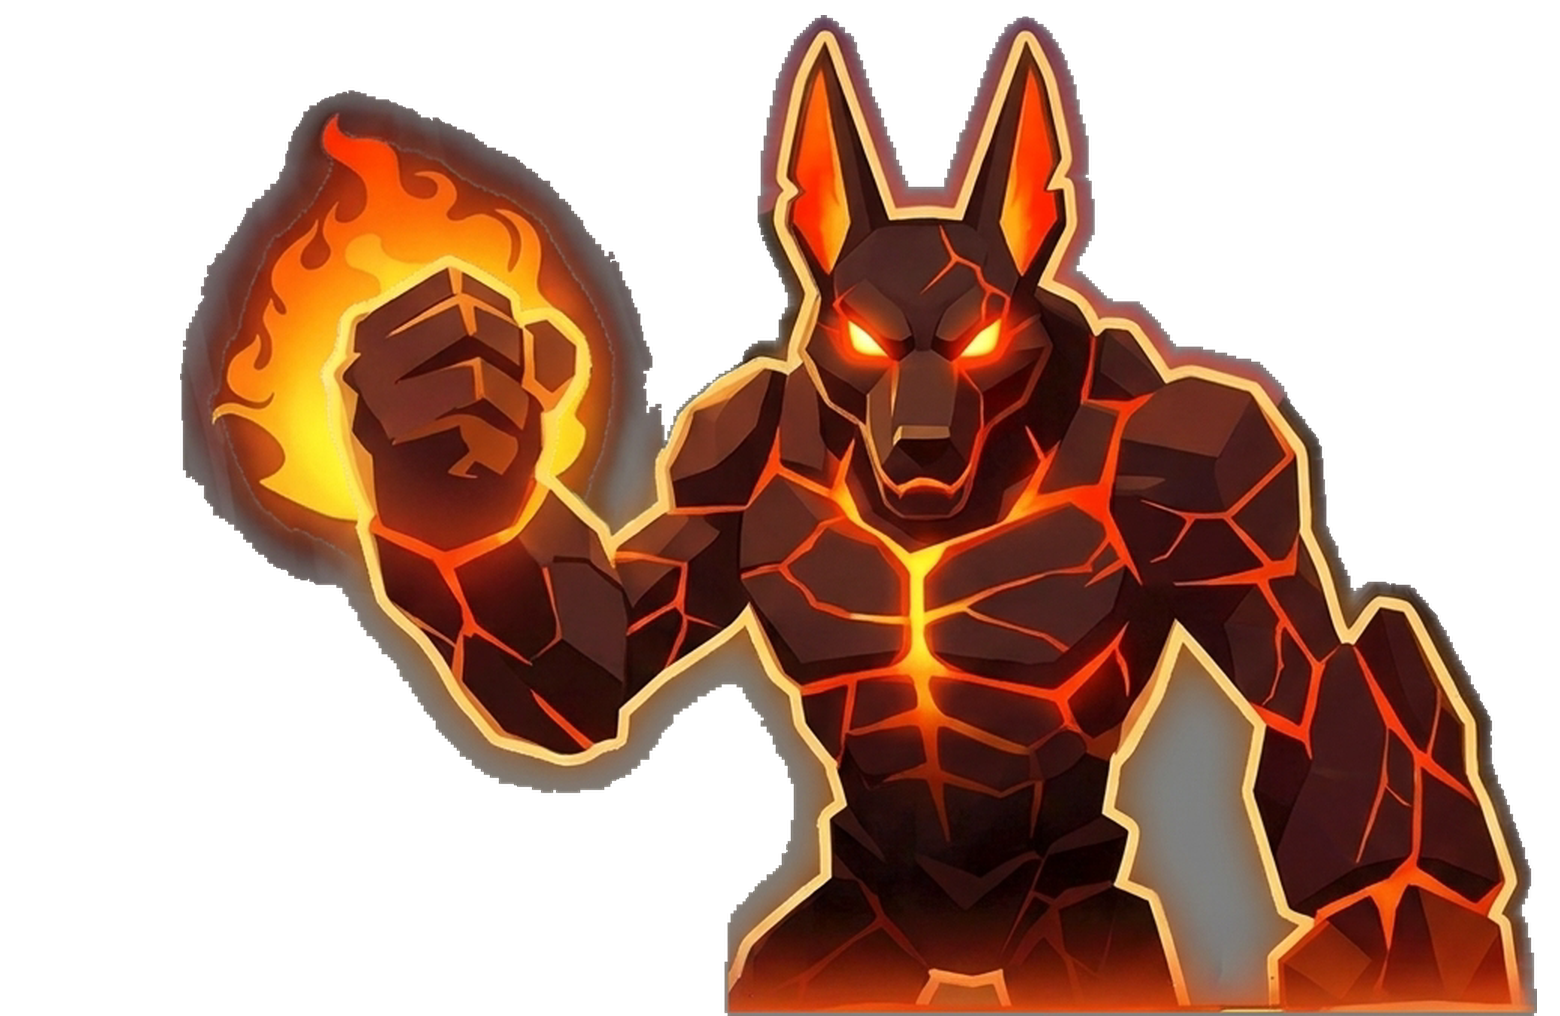
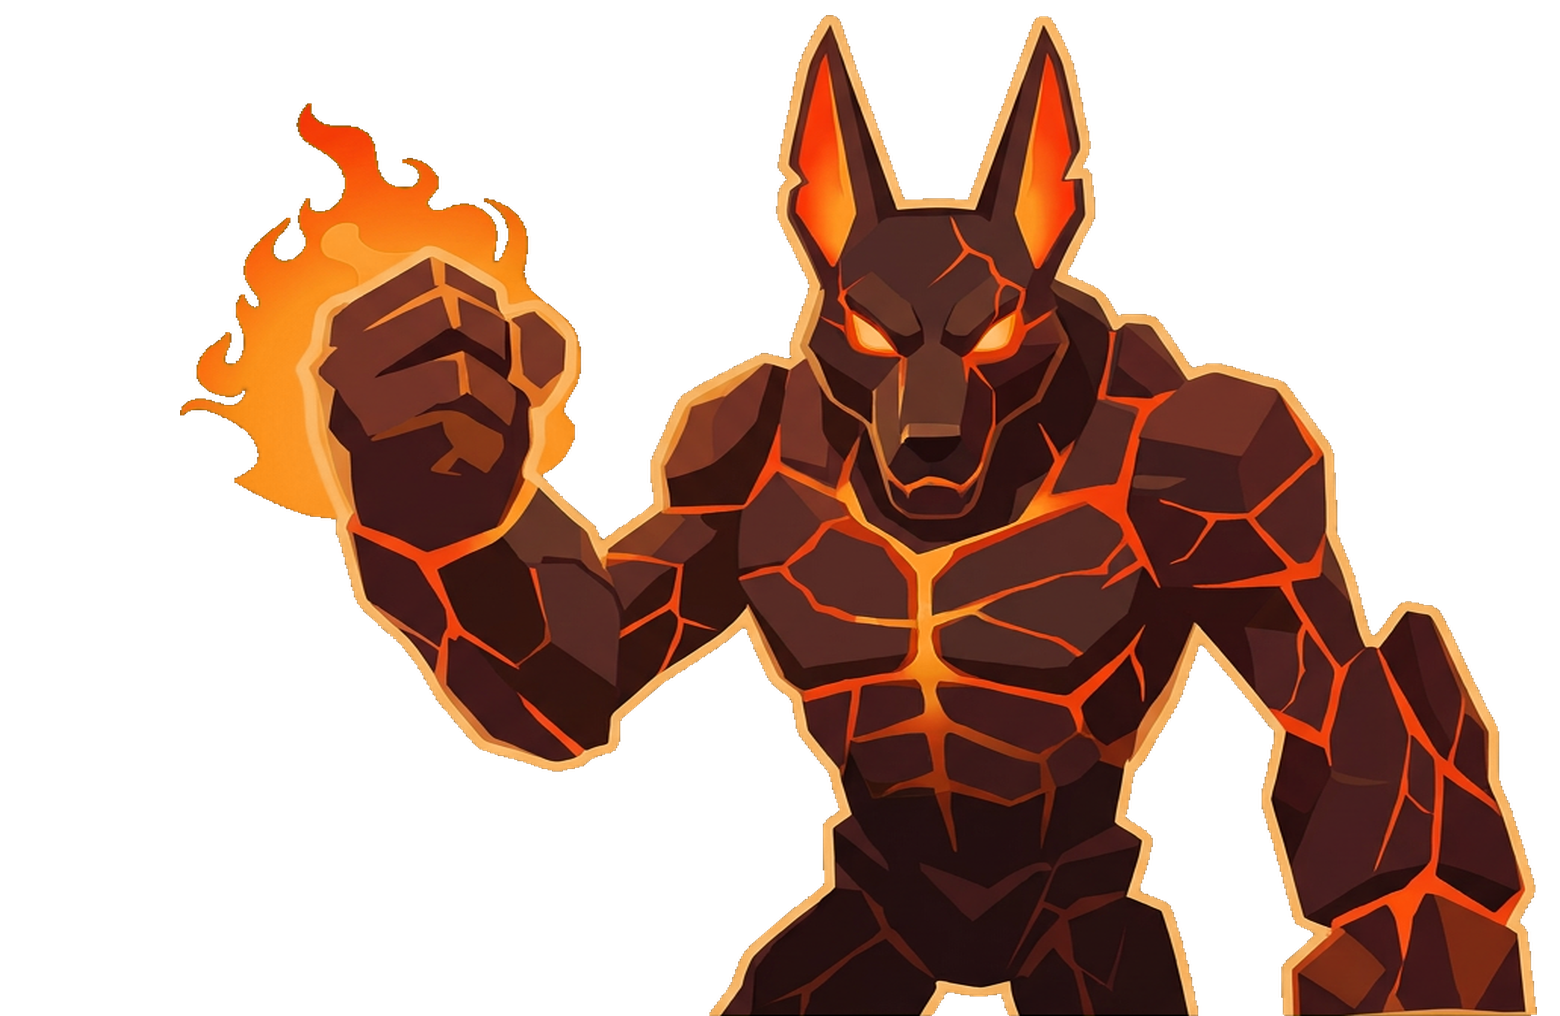
Nick's 2026-10-21 list: clean jackal, no aura, Goblin's stones, beast back, no purple
Sprite: regenerated through Meshy onto a PURE GREEN field and keyed out, rather
than cut off grey. The grey the old cut carried was the aura -- a pale shadow
hugging the figure and the flame against dark lava -- and no amount of alpha
work removed it, because it was opaque. Green is nowhere in the art, so the key
is exact. The stray rocks by the left arm went with it. 9 credits.

Goblin's stones: one_line off for this biome, so both staircases draw. The pair
that genuinely land on each other at the top are still folded into one.

The beast stands back: DRAWN_PUSH_BACK, 0.9 of its own height. A drawn beast is
a billboard fitted to a screen height, so standing it further back costs it
nothing on screen and buys the separation the parallax reads from -- the stones
hang in front of it instead of on it. The climb route is untouched: it is built
from the anchors, which this does not move. Nick: "leave the positioning of the
stones where they are."

The purple: the sky's violet dusk and the cliffs' violet far-haze were two
separate sources of the same glow. Both go to near-black smoke over a dull
ember horizon, so the only colour behind the beast is its own lava.

Two sky tests pinned the violet. They assert the new rule now, with why.

diff --git a/tools/beast_destone.py b/tools/beast_destone.py
@@ -84,11 +84,52 @@ def destone(beast, write):
     return int(keep.sum()), kept
 
 
+def dehalo(path, write):
+    """Strip the grey aura the cut leaves round a sprite.
+
+    Nick, 2026-10-21: "it looks like there's like a aura around it ... almost,
+    it looks like a shadow around the Jackal." The sprite was cut off a flat
+    grey field, so every soft edge pixel carries that grey: against the fight's
+    dark lava it reads as a pale shadow hugging the figure and the flame.
+
+    Wide soft fringe goes entirely; the last pixel or two of real edge keeps
+    its alpha but takes the colour of the solid pixels beside it, so the
+    silhouette stays smooth instead of turning to stairs.
+    """
+    im = Image.open(path).convert("RGBA")
+    a = np.asarray(im).astype(float)
+    rgb, al = a[..., :3], a[..., 3].copy()
+    solid = al > 250
+    soft = (al > 0) & ~solid
+    killed = int((soft & (al < 90)).sum())
+    al[soft & (al < 90)] = 0.0            # the wide aura
+    edge = (al > 0) & ~solid
+    out = rgb.copy()
+    if edge.any():
+        w = ndi.uniform_filter(solid.astype(float), size=7)
+        for c in range(3):
+            src = ndi.uniform_filter(np.where(solid, rgb[..., c], 0.0), size=7)
+            out[..., c] = np.where(edge, src / np.maximum(w, 1e-4), rgb[..., c])
+    if not write:
+        return killed, int(edge.sum())
+    keep = path.replace(".png", ".orig.png")
+    if not os.path.exists(keep):
+        im.save(keep)
+    Image.fromarray(np.dstack([np.clip(out, 0, 255), al]).astype(np.uint8),
+                    "RGBA").save(path)
+    return killed, int(edge.sum())
+
+
 def main():
     os.chdir(os.path.join(os.path.dirname(os.path.abspath(__file__)), ".."))
     args = [a for a in sys.argv[1:] if not a.startswith("--")]
     beast = args[0] if args else "cinder_jackal"
-    px, blobs = destone(beast, "--check" not in sys.argv)
+    write = "--check" not in sys.argv
+    if "--halo" in sys.argv:
+        killed, edged = dehalo(os.path.join(CAST, "%s_2d.png" % beast), write)
+        print("%s: %d aura px dropped, %d edge px recoloured" % (beast, killed, edged))
+        return 0
+    px, blobs = destone(beast, write)
     print("%s: %d px in %d shape(s)%s" % (beast, px, blobs,
                                           "" if "--check" in sys.argv else " painted out"))
     return 0
